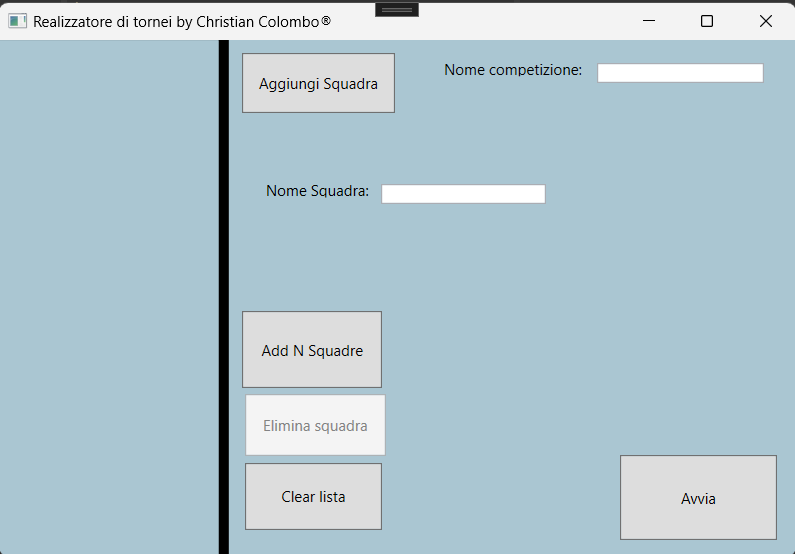
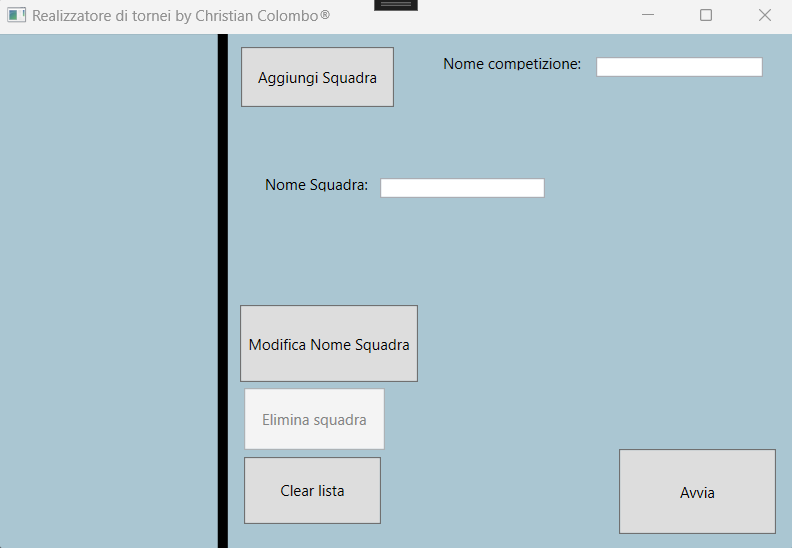
Aggiunte varie al readme

diff --git a/README.md b/README.md
@@ -13,6 +13,37 @@ Richiedere all’utente di inserire tramite un’interfaccia grafica delle squad
 - Pulire la lista eliminando tutti le squadre presenti / Clear the list deleting all the teams inside;
 ---
 ## Schermata Principale / Main Window:
-![Schermata principale](images/schermata_principale_SW.png "Schermata principale")
+![](images/schermata_principale_SW.png "Schermata principale")
 
 ---
+
+## Schermata Di Aggiunta di una Squadra / Window to add a team:
+![](images/schermata_addsquadra.png "Schermata di Aggiunta Squadra")
+
+---
+
+## Schermata Per modificare il nome di una Squadra / Window to edit the name of a team:
+![](images/modificaNomeSquadra_window.png "Schermata di Modifca nome di una squadra")
+### (Esempio realizzato con 2 squadra ma se ne possono inserire fino a 16 / Example created with 2 teams but up to 16 can be inserted)
+
+
+---
+
+## Schermata Principale prima di avviare la competizione / Main Window before starting the competition:
+![](images/schermata_principale_SW_BS.png "Schermata principale")
+
+---
+
+## Schermata Finale / Final Window:
+### Per mandare avanti di uno step una squadra è necessario premere sul pulsante che la rappresenta /  To move a team forward one step you need to press the button that represents it
+![](images/Schermata_finale_p1.png "Schermata Di inizializzazione tabellone")
+
+![](images/Schermata_finale_p2.png "Schermata con competizione finita")
+
+---
+
+# COME UTILIZZARE IL SOFTWARE / HOW TO USE THE SOFTWARE:
+
+1) Vai nella repository Github e premi sul tasto "Code", e copia la repository / Go to the Github repository and press the "Code" button, and copy the repository;
+2) Apri Visual Studio Installer e assicurati di aver installato il seguentie pacchetto/ Open Visual Studio Installer and make Sure to have installed the following package:
+![](images/Pacchetto_da_installare.png )
